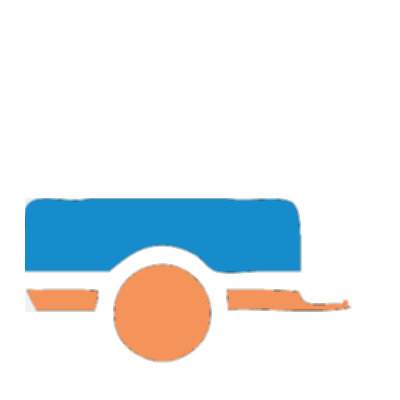
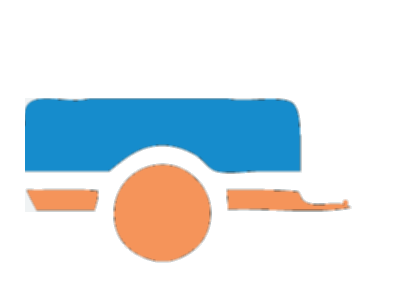
main page categories

Changed region(s): [[0.06, 0.3, 0.9, 0.93]]

diff --git a/public/css/styles.css b/public/css/styles.css
@@ -413,5 +413,8 @@ html,body{
 	height: 60px;
 	float: left;
 	margin-right: 14px;
-	margin-top: 14px;
+	margin-top: 8px;
+}
+.categoryPanel .panel-body {
+	margin-top: 6px;
 }
